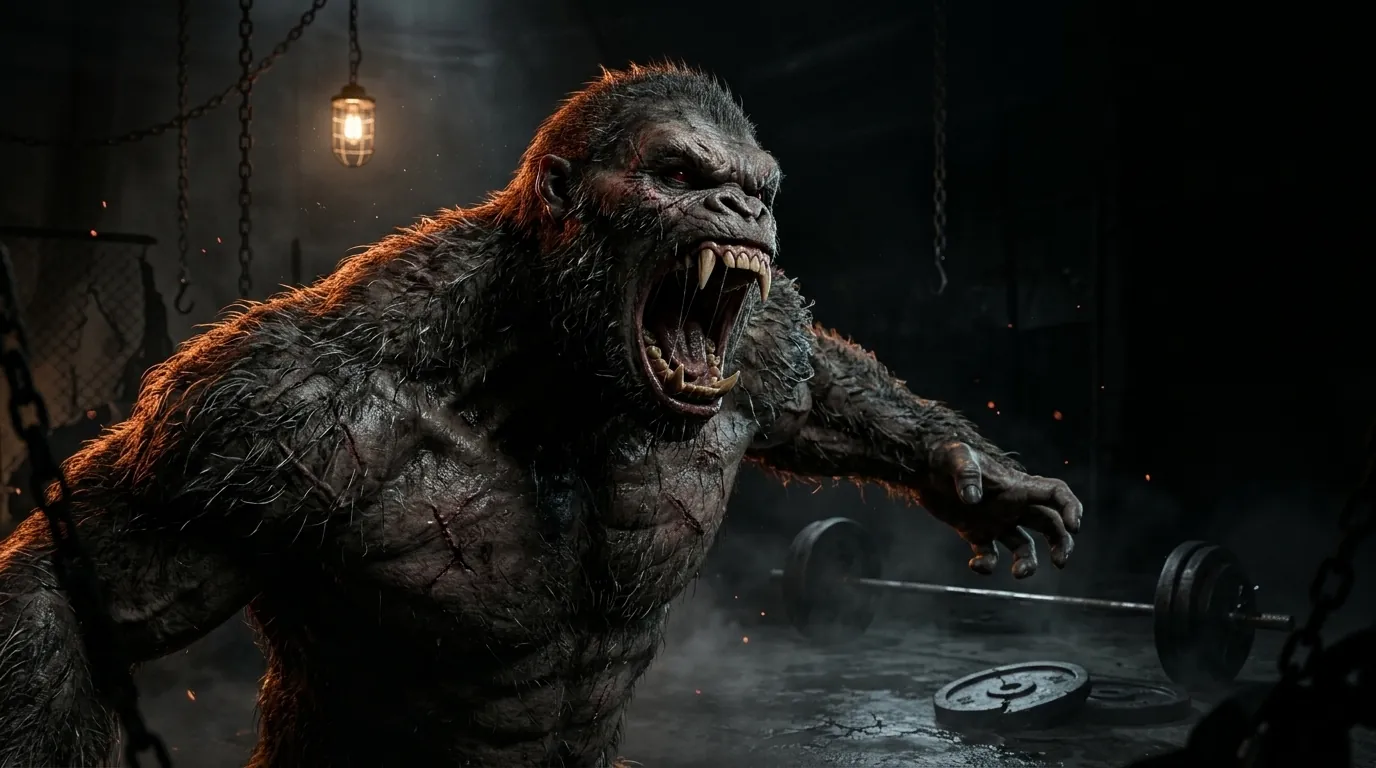
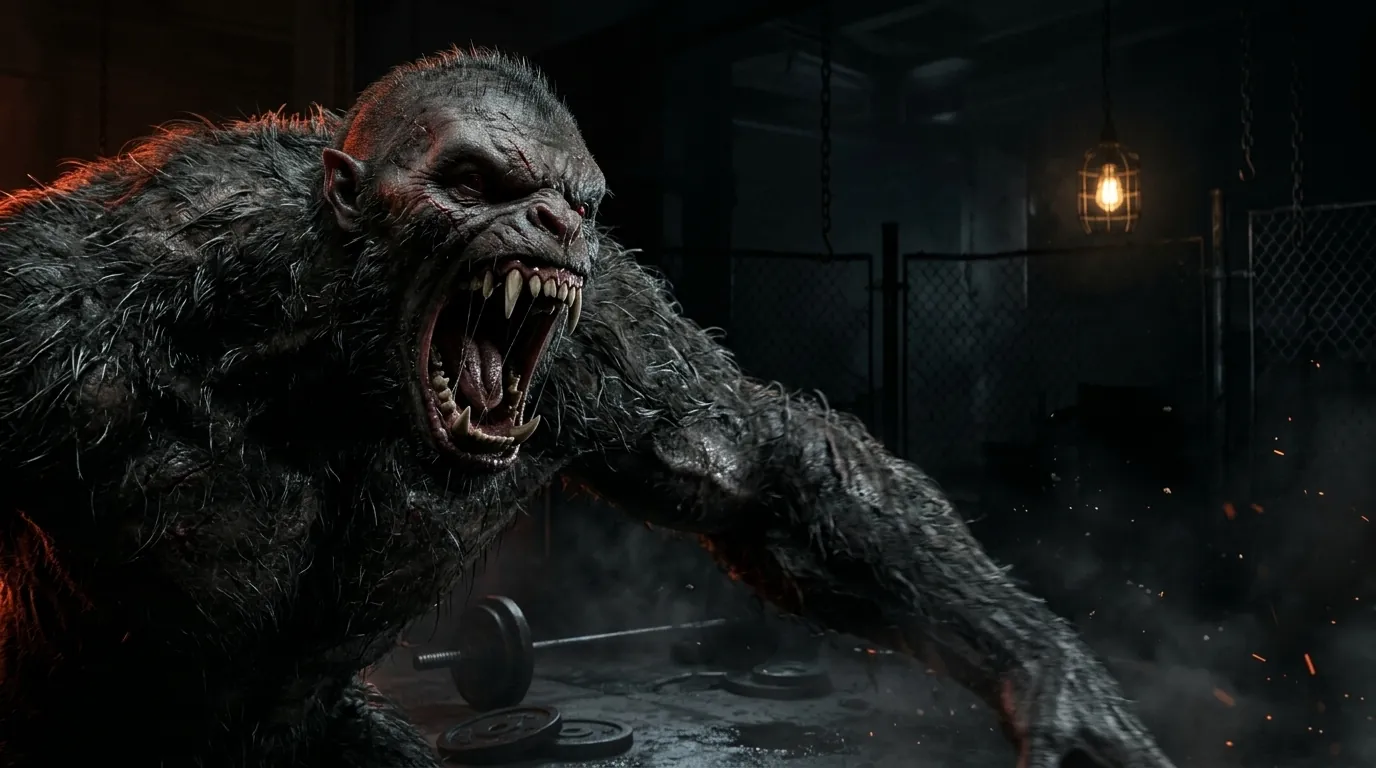
feat(hero): fondo bestia v2 (cara al tercio izquierdo) + cache-bust

diff --git a/local/home-nuevo/home-nuevo.php b/local/home-nuevo/home-nuevo.php
@@ -53,11 +53,11 @@ function sp_combo_ahorro($pid) {
     return $ahorro > 0 ? $ahorro : 0;
 }
 
-// Categorías principales (con icono)
+// CategorÃas principales (con icono)
 $sp_cats = get_terms(array('taxonomy' => 'product_cat', 'hide_empty' => true, 'include' => array(18, 258, 22, 253, 265, 269), 'orderby' => 'include'));
 $sp_cat_icons = array('proteinas' => 'proteina', 'creatina' => 'creatina', 'pre-entrenos' => 'pre-entreno', 'aminoacidos' => 'aminoacidos', 'quemadores-de-grasa' => 'quemadores');
 
-// Productos en oferta (categoría "Descuento Online") — solo disponibles, on-sale y sin combos
+// Productos en oferta (categorÃa "Descuento Online") â€” solo disponibles, on-sale y sin combos
 function sp_es_oferta_web($p) {
     if (!$p) return false;
     if ($p->get_type() !== 'simple') return false;
@@ -70,12 +70,12 @@ $sp_onsale = array_values(array_filter(
 ));
 $sp_onsale = array_slice($sp_onsale, 0, 8);
 
-// Más vendidos — solo disponibles; rotan (orden/subconjunto aleatorio en cada carga)
+// MÃ¡s vendidos â€” solo disponibles; rotan (orden/subconjunto aleatorio en cada carga)
 $sp_best = array_values(array_filter(
     wc_get_products(array('limit' => 24, 'status' => 'publish', 'orderby' => 'popularity', 'order' => 'DESC')),
     'sp_disponible'
 ));
-// NUEVOS primero (productos recién subidos) — visibilidad garantizada en el reel
+// NUEVOS primero (productos reciÃ©n subidos) â€” visibilidad garantizada en el reel
 $sp_nuevos = function_exists('sp_es_nuevo') ? array_values(array_filter(
     wc_get_products(array('limit' => 6, 'status' => 'publish', 'orderby' => 'date', 'order' => 'DESC')),
     function ($p) { return sp_disponible($p) && sp_es_nuevo($p); }
@@ -83,7 +83,7 @@ $sp_nuevos = function_exists('sp_es_nuevo') ? array_values(array_filter(
 shuffle($sp_best);
 $sp_best = array_slice(array_merge($sp_nuevos, $sp_best), 0, 12);
 
-// Reseñas reales de Google (Google Places API por sucursal) — solo 4★+ con texto
+// ReseÃ±as reales de Google (Google Places API por sucursal) â€” solo 4â˜…+ con texto
 $sp_reviews = array();
 if (function_exists('sp_fetch_google_reviews')) {
     $sp_suc_data = @include get_stylesheet_directory() . '/sucursales/data.php';
@@ -102,7 +102,7 @@ if (function_exists('sp_fetch_google_reviews')) {
     if ($sp_reviews) { shuffle($sp_reviews); $sp_reviews = array_slice($sp_reviews, 0, 4); }
 }
 
-// Videos (Cloudinary) + enlace a la página de marca
+// Videos (Cloudinary) + enlace a la pÃ¡gina de marca
 $sp_videos = array(
     array('marca' => 'EVOGEN',            'url' => 'https://res.cloudinary.com/jrm5xhxt/video/upload/v1790785479/u0wc07yncqaiun9uqmat.mp4', 'link' => '/product-brand/suplementos-evogen/'),
     array('marca' => 'LANDERFIT',          'url' => 'https://res.cloudinary.com/jrm5xhxt/video/upload/v1790785485/tvobqmrpxt4jw29oodjt.mp4', 'link' => '/product-brand/suplementos-landerfit/'),
@@ -157,7 +157,7 @@ body .breadcrumb-wrap{display:none !important}
 
 /* HERO */
 .sp-hero{background:#070707;color:#fff;position:relative;overflow:hidden;border-bottom:1px solid #2a2a2a}
-.sp-hero__bg{position:absolute;inset:0;pointer-events:none;background-image:image-set(url('<?php echo esc_url(get_stylesheet_directory_uri()); ?>/assets/hero-bg/hero-bg-desktop.webp?ver=20261026') type('image/webp'),url('<?php echo esc_url(get_stylesheet_directory_uri()); ?>/assets/hero-bg/hero-bg-desktop.jpg?ver=20261026') type('image/jpeg'));background-size:cover;background-position:left center;background-repeat:no-repeat;opacity:1;filter:brightness(1) contrast(1.02) saturate(1.05)}
+.sp-hero__bg{position:absolute;inset:0;pointer-events:none;background-image:image-set(url('<?php echo esc_url(get_stylesheet_directory_uri()); ?>/assets/hero-bg/hero-bg-desktop.webp?ver=20261026b') type('image/webp'),url('<?php echo esc_url(get_stylesheet_directory_uri()); ?>/assets/hero-bg/hero-bg-desktop.jpg?ver=20261026b') type('image/jpeg'));background-size:cover;background-position:left center;background-repeat:no-repeat;opacity:1;filter:brightness(1) contrast(1.02) saturate(1.05)}
 .sp-hero__shade{position:absolute;inset:0;pointer-events:none;z-index:1;background:radial-gradient(120% 130% at 20% 45%,rgba(7,7,7,.94) 0%,rgba(7,7,7,.72) 26%,rgba(7,7,7,.30) 50%,rgba(7,7,7,0) 70%)}
 @media(max-width:900px){.sp-hero__shade{background:linear-gradient(180deg,rgba(7,7,7,.92) 0%,rgba(7,7,7,.55) 42%,rgba(7,7,7,.75) 100%)}}
 @media(max-width:900px){.sp-hero__bg{background-image:image-set(url('<?php echo esc_url(get_stylesheet_directory_uri()); ?>/assets/hero-bg/hero-bg-mobile.webp') type('image/webp'),url('<?php echo esc_url(get_stylesheet_directory_uri()); ?>/assets/hero-bg/hero-bg-mobile.jpg') type('image/jpeg'));background-position:center top;opacity:.15}}
@@ -204,7 +204,7 @@ body .breadcrumb-wrap{display:none !important}
 .sp-trust span{font-size:13px;color:#fff}
 @media(max-width:900px){.sp-hide-mobile{display:none}}
 
-/* CATEGORÍAS */
+/* CATEGORÃAS */
 .sp-cats{display:grid;grid-template-columns:repeat(3,1fr);gap:20px;margin-top:24px}
 @media(max-width:900px){.sp-cats{grid-template-columns:repeat(2,1fr)}}
 @media(max-width:520px){.sp-cats{grid-template-columns:1fr}}
@@ -298,7 +298,7 @@ body .breadcrumb-wrap{display:none !important}
 
 <main class="sp-home">
 
-  <!-- 1. HERO (combos, slider automático) -->
+  <!-- 1. HERO (combos, slider automÃ¡tico) -->
   <section class="sp-hero" id="combos">
     <div class="sp-hero__bg"></div>
     <div class="sp-hero__shade"></div>
@@ -306,10 +306,10 @@ body .breadcrumb-wrap{display:none !important}
       <div class="sp-hero__in">
         <div>
           <a class="sp-hero__badge" href="/promociones/combos/">SCARY POWER MODE &gt;&gt;</a>
-          <h1><span class="sp-h1l orange">TRICK OR TRAIN:</span> <span class="sp-h1l">SUPLEMENTOS EN PANAMÁ,</span> <span class="sp-h1l">SIN TRUCOS.</span></h1>
-          <p class="lead">Tienda de suplementos deportivos en Panamá. Combos solo online para volumen, definición y fuerza, con retiro en 6 sucursales y envío nacional.</p>
+          <h1><span class="sp-h1l orange">TRICK OR TRAIN:</span> <span class="sp-h1l">SUPLEMENTOS EN PANAMÃ,</span> <span class="sp-h1l">SIN TRUCOS.</span></h1>
+          <p class="lead">Tienda de suplementos deportivos en PanamÃ¡. Combos solo online para volumen, definiciÃ³n y fuerza, con retiro en 6 sucursales y envÃo nacional.</p>
           <div class="sp-chips">
-            <span class="sp-chip">Envíos a todo Panamá</span>
+            <span class="sp-chip">EnvÃos a todo PanamÃ¡</span>
             <span class="sp-chip">Retiras en 6 sucursales</span>
             <span class="sp-chip">Pagos Yappy / Tarjeta</span>
           </div>
@@ -352,19 +352,19 @@ body .breadcrumb-wrap{display:none !important}
   <section class="sp-trust">
     <div class="sp-wrap">
       <div class="sp-trust__in">
-        <div class="sp-trust__it"><div class="sp-trust__ic"><img src="<?php echo esc_url(get_stylesheet_directory_uri()); ?>/assets/iconos/envio-gratis.webp" alt="Envío gratis a todo Panamá" loading="lazy"></div><div><h3>Envío Gratis</h3><span>En compras desde $150<span class="sp-hide-mobile"> a todo Panamá</span></span></div></div>
+        <div class="sp-trust__it"><div class="sp-trust__ic"><img src="<?php echo esc_url(get_stylesheet_directory_uri()); ?>/assets/iconos/envio-gratis.webp" alt="EnvÃo gratis a todo PanamÃ¡" loading="lazy"></div><div><h3>EnvÃo Gratis</h3><span>En compras desde $150<span class="sp-hide-mobile"> a todo PanamÃ¡</span></span></div></div>
         <div class="sp-trust__it"><div class="sp-trust__ic"><img src="<?php echo esc_url(get_stylesheet_directory_uri()); ?>/assets/iconos/retiro-sucursal.webp" alt="Retira por sucursal" loading="lazy"></div><div><h3>Retira por Sucursal</h3><span>En nuestras 6 sucursales</span></div></div>
-        <div class="sp-trust__it"><div class="sp-trust__ic"><img src="<?php echo esc_url(get_stylesheet_directory_uri()); ?>/assets/iconos/originales.webp" alt="Productos 100% originales" loading="lazy"></div><div><h3>100% Originales</h3><span>Directo de fábrica, lote trazable</span></div></div>
-        <div class="sp-trust__it"><div class="sp-trust__ic"><img src="<?php echo esc_url(get_stylesheet_directory_uri()); ?>/assets/iconos/asesoria-whatsapp.webp" alt="Asesoría por WhatsApp" loading="lazy"></div><div><h3>Asesoría WhatsApp</h3><span>Expertos en suplementación</span></div></div>
+        <div class="sp-trust__it"><div class="sp-trust__ic"><img src="<?php echo esc_url(get_stylesheet_directory_uri()); ?>/assets/iconos/originales.webp" alt="Productos 100% originales" loading="lazy"></div><div><h3>100% Originales</h3><span>Directo de fÃ¡brica, lote trazable</span></div></div>
+        <div class="sp-trust__it"><div class="sp-trust__ic"><img src="<?php echo esc_url(get_stylesheet_directory_uri()); ?>/assets/iconos/asesoria-whatsapp.webp" alt="AsesorÃa por WhatsApp" loading="lazy"></div><div><h3>AsesorÃa WhatsApp</h3><span>Expertos en suplementaciÃ³n</span></div></div>
       </div>
     </div>
   </section>
 
-  <!-- 3. CATEGORÍAS -->
+  <!-- 3. CATEGORÃAS -->
   <section class="sp-sec">
     <div class="sp-wrap">
       <div style="text-align:center">
-        <span class="sp-eyebrow sp-eyebrow--lg">Suplementos Deportivos en Panamá</span>
+        <span class="sp-eyebrow sp-eyebrow--lg">Suplementos Deportivos en PanamÃ¡</span>
         <h2>Encuentra el suplemento exacto para tus objetivos.</h2>
       </div>
       <div class="sp-cats">
@@ -374,7 +374,7 @@ body .breadcrumb-wrap{display:none !important}
             $count = $cat->count; ?>
           <a class="sp-cat" href="<?php echo esc_url($link); ?>">
             <h3><?php echo esc_html($cat->name); ?></h3>
-            <span class="go">Explorar →</span>
+            <span class="go">Explorar â†’</span>
           </a>
         <?php endforeach; endif; ?>
       </div>
@@ -434,7 +434,7 @@ body .breadcrumb-wrap{display:none !important}
             <source media="(max-width:1200px)" type="image/webp" srcset="<?php echo esc_url(get_stylesheet_directory_uri()); ?>/assets/banner-halloween/banner-halloween-1200x480.webp">
             <source media="(max-width:1200px)" srcset="<?php echo esc_url(get_stylesheet_directory_uri()); ?>/assets/banner-halloween/banner-halloween-1200x480.jpg">
             <source type="image/webp" srcset="<?php echo esc_url(get_stylesheet_directory_uri()); ?>/assets/banner-halloween/banner-halloween-1920x500.webp">
-            <img src="<?php echo esc_url(get_stylesheet_directory_uri()); ?>/assets/banner-halloween/banner-halloween-1920x500.jpg" alt="Banner de Halloween Sale con proteína isolate, creatina y glutamina VMS Nutrition y Evogen" width="1920" height="500" loading="lazy" decoding="async">
+            <img src="<?php echo esc_url(get_stylesheet_directory_uri()); ?>/assets/banner-halloween/banner-halloween-1920x500.jpg" alt="Banner de Halloween Sale con proteÃna isolate, creatina y glutamina VMS Nutrition y Evogen" width="1920" height="500" loading="lazy" decoding="async">
           </picture>
         </a>
         <div class="sp-hw__cta">
@@ -481,17 +481,17 @@ body .breadcrumb-wrap{display:none !important}
             </div>
           </div>
         <?php endforeach; else: ?>
-          <p class="sp-sub">(Sección reservada: aquí irán los productos con descuento web-only.)</p>
+          <p class="sp-sub">(SecciÃ³n reservada: aquÃ irÃ¡n los productos con descuento web-only.)</p>
         <?php endif; ?>
       </div>
     </div>
   </section>
 
-  <!-- 7. MÁS VENDIDOS -->
+  <!-- 7. MÃS VENDIDOS -->
   <section class="sp-sec" style="background:var(--sp-light);border-top:1px solid var(--sp-border)">
     <div class="sp-wrap sp-wrap--boxed">
       <span class="sp-eyebrow sp-eyebrow--lg">Si entrenas fuerte, sabes donde comprar</span>
-      <h2>Lo que más nos piden</h2>
+      <h2>Lo que mÃ¡s nos piden</h2>
       <div class="sp-reel">
         <div class="sp-reel__track">
         <?php if ($sp_best): foreach (array(0, 1) as $sp_pass): foreach ($sp_best as $p):
@@ -516,7 +516,7 @@ body .breadcrumb-wrap{display:none !important}
   <section class="sp-sec" style="padding-top:84px">
     <div class="sp-wrap">
       <div style="text-align:center">
-        <span class="sp-eyebrow sp-eyebrow--lg">La casa oficial de suplementos <br class="sp-br-mobile">nutricionales en Panamá</span>
+        <span class="sp-eyebrow sp-eyebrow--lg">La casa oficial de suplementos <br class="sp-br-mobile">nutricionales en PanamÃ¡</span>
         <h2>No vendemos marcas, las marcas nos eligen</h2>
       </div>
       <div class="sp-videos" id="sp-videos">
@@ -547,13 +547,13 @@ body .breadcrumb-wrap{display:none !important}
             $suc = $rev['_suc'] ?? '';
         ?>
           <div class="sp-test">
-            <div class="stars"><?php echo str_repeat('★', $rating) . str_repeat('☆', 5 - $rating); ?></div>
-            <p>“<?php echo esc_html(wp_trim_words($rtxt, 38, '…')); ?>”</p>
-            <div class="who"><?php echo esc_html($autor); ?><?php if ($suc): ?> — <?php if (!empty($rev['_suc_url'])): ?><a href="<?php echo esc_url($rev['_suc_url']); ?>" target="_blank" rel="noopener"><?php echo esc_html($suc); ?></a><?php else: ?><?php echo esc_html($suc); ?><?php endif; ?><?php endif; ?></div>
-            <div class="src">Reseña de Google</div>
+            <div class="stars"><?php echo str_repeat('â˜…', $rating) . str_repeat('â˜†', 5 - $rating); ?></div>
+            <p>â€œ<?php echo esc_html(wp_trim_words($rtxt, 38, 'â€¦')); ?>â€</p>
+            <div class="who"><?php echo esc_html($autor); ?><?php if ($suc): ?> â€” <?php if (!empty($rev['_suc_url'])): ?><a href="<?php echo esc_url($rev['_suc_url']); ?>" target="_blank" rel="noopener"><?php echo esc_html($suc); ?></a><?php else: ?><?php echo esc_html($suc); ?><?php endif; ?><?php endif; ?></div>
+            <div class="src">ReseÃ±a de Google</div>
           </div>
         <?php endforeach; else: ?>
-          <div class="sp-test"><div class="stars">★★★★★</div><p>“Productos originales y excelente asesoría.”</p><div class="who">Cliente — Panamá</div></div>
+          <div class="sp-test"><div class="stars">â˜…â˜…â˜…â˜…â˜…</div><p>â€œProductos originales y excelente asesorÃa.â€</p><div class="who">Cliente â€” PanamÃ¡</div></div>
         <?php endif; ?>
       </div>
     </div>
@@ -565,10 +565,10 @@ body .breadcrumb-wrap{display:none !important}
       <div class="sp-cta">
         <div class="sp-cta__bg"></div>
         <div class="sp-cta__in">
-          <h2>¿No sabes cuál suplemento elegir?</h2>
+          <h2>Â¿No sabes cuÃ¡l suplemento elegir?</h2>
           <p>Chatea con nuestros asesores y recibe un plan personalizado de acuerdo a tus necesidades.</p>
         </div>
-        <a class="sp-btn sp-btn--wa" href="https://wa.me/50763805669?text=Hola%20Suplementos%20Panam%C3%A1,%20deseo%20asesor%C3%ADa" target="_blank" rel="noopener">Asesoría por WhatsApp: +507 6380-5669</a>
+        <a class="sp-btn sp-btn--wa" href="https://wa.me/50763805669?text=Hola%20Suplementos%20Panam%C3%A1,%20deseo%20asesor%C3%ADa" target="_blank" rel="noopener">AsesorÃa por WhatsApp: +507 6380-5669</a>
       </div>
     </div>
   </section>
@@ -620,7 +620,7 @@ body .breadcrumb-wrap{display:none !important}
     render();
   }
 
-  /* --- Videos de marca: botón play/pause independiente por video --- */
+  /* --- Videos de marca: botÃ³n play/pause independiente por video --- */
   var vids = document.querySelectorAll('#sp-videos video');
   function loadVid(v){ if(v.dataset.loaded) return; v.dataset.loaded=1; var s=document.createElement('source'); s.src=v.dataset.src; s.type='video/mp4'; v.appendChild(s); v.load(); }
   function syncBtn(v){ var b=v.parentNode.querySelector('.sp-vid__btn'); if(b) b.classList.toggle('is-playing', !v.paused); }
